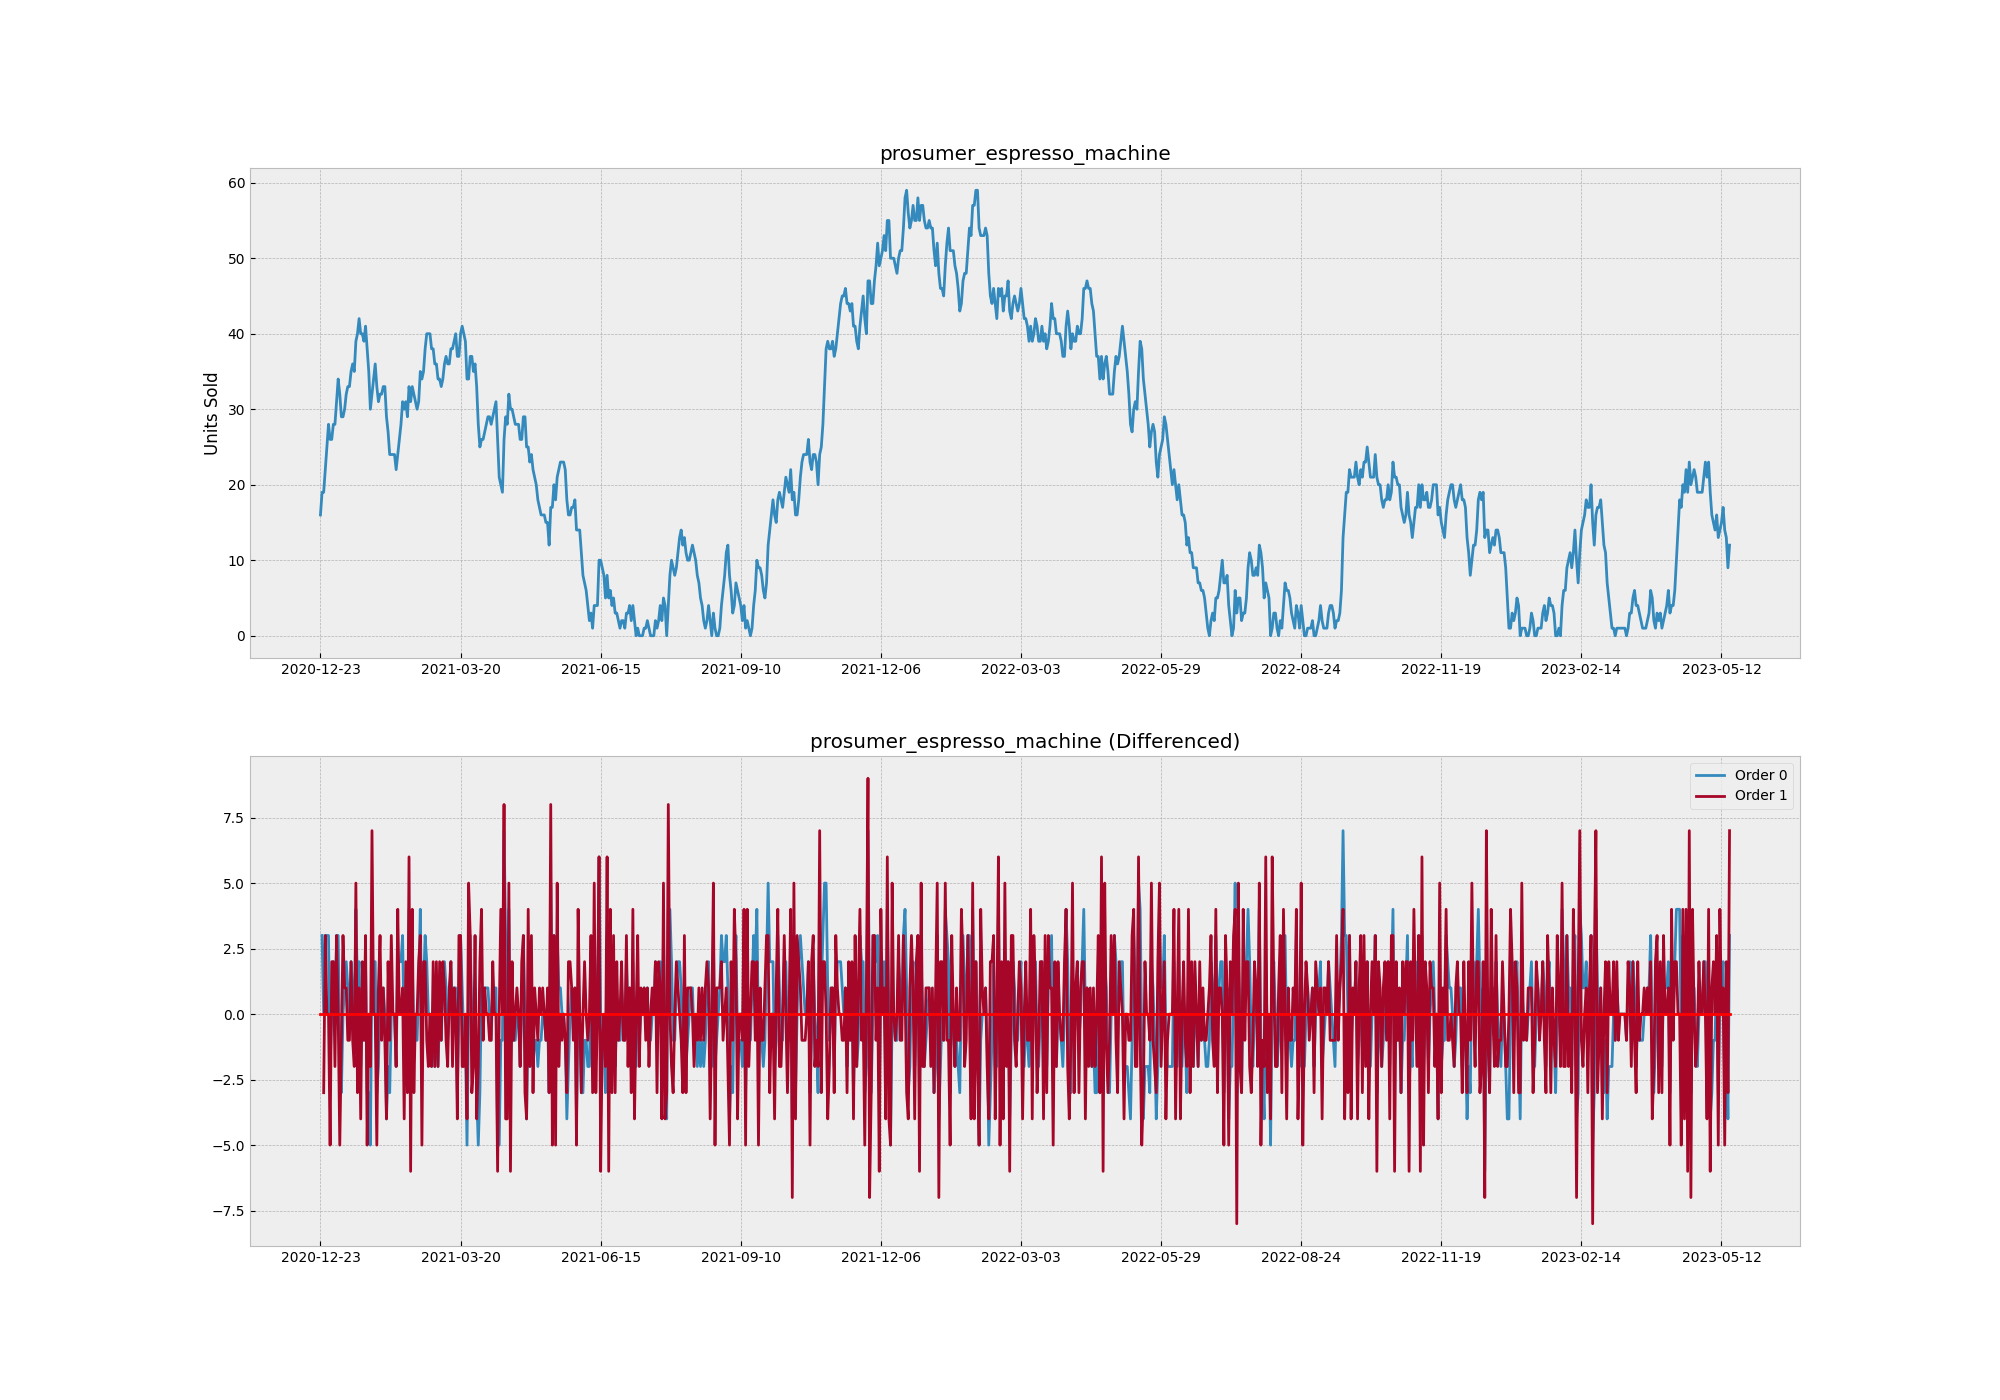
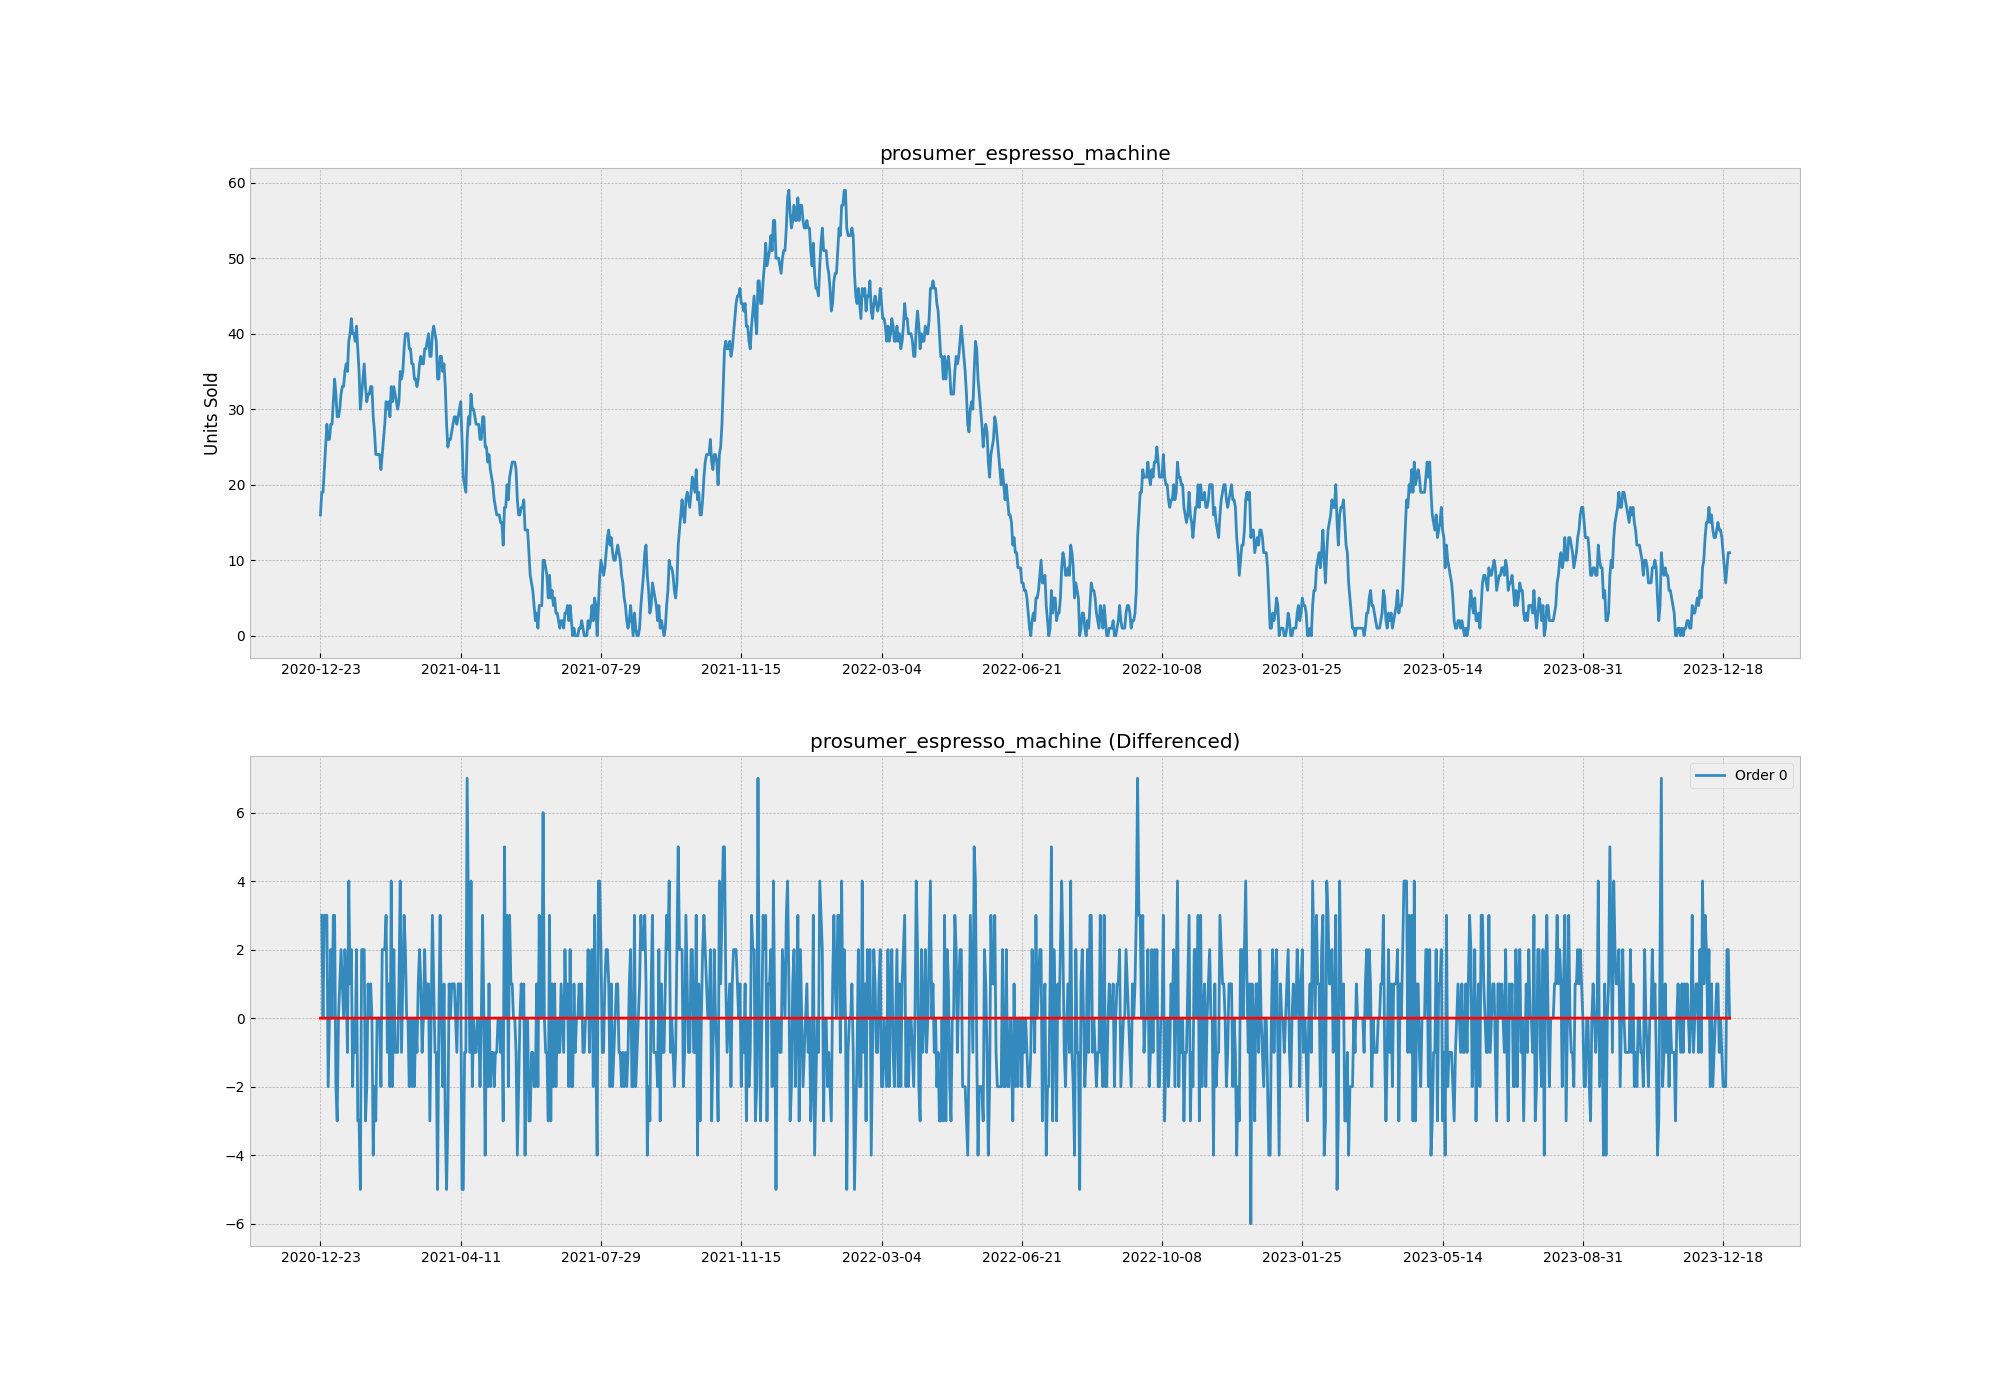
Updated visualization script/functions; added .pyc files to .gitignore

diff --git a/src/toolbox.py b/src/toolbox.py
@@ -17,6 +17,9 @@ import numpy as np
 # import plotting libraries
 import matplotlib.pyplot as plt
 
+# import statistics libraries
+import statsmodels.api as sm
+
 # import scikit-learn functions
 from sklearn.model_selection import train_test_split
 from sklearn.metrics import (mean_squared_error, mean_absolute_error,
@@ -60,7 +63,7 @@ def plot_differenced_ts(series, save_path=None, differencing_param=1, title="Tim
 
     axes[1].set(title=title + " (Differenced)",
                 ylabel=None,
-                xticks = series.index[range(0, len(series), len(series)//num_xticks)]
+                xticks = diff_series.index[range(0, len(series), len(series)//num_xticks)]
                 )
     axes[1].legend()
     axes[1].plot(diff_series.index, [0]*len(series), 'r')
@@ -68,8 +71,39 @@ def plot_differenced_ts(series, save_path=None, differencing_param=1, title="Tim
     # save plot
     if save_path != None:
         plt.savefig(save_path)
+        print(f"\nSaved plot {title} to path {save_path}")
+    else:
+        plt.show()
+
 
 # define function to plot ACF & PACF
+def plot_acf(series, save_path=None, differencing_param=1, title="ACF", num_xticks=25):
+
+    # difference timeseries
+    diff_series = series
+    for order in range(differencing_param):
+        diff_series = diff_series.diff()
+
+    # set style params
+    plt.style.use('bmh')
+
+    # define figure & axes
+    fig, axes = plt.subplots(2, 1, figsize=(20, 14))
+    fig.suptitle(title, fontsize=20)
+
+    # plot ACF
+    fig = sm.graphics.tsa.plot_acf(diff_series.values, lags=num_xticks, ax=axes[0])
+
+    # plot PACF
+    fig = sm.graphics.tsa.plot_pacf(diff_series.values, lags=num_xticks, ax=axes[1])
+
+    # save plot
+    if save_path != None:
+        plt.savefig(save_path)
+        print(f"\nSaved plot {title} to path {save_path}")
+    else:
+        plt.show()
+
 
 # ---------------------------------------
 #---Define Model Evaluation Functions---

diff --git a/src/viz/visualize.py b/src/viz/visualize.py
@@ -53,6 +53,25 @@ trn_df = trn_df['units_sold']
 tst_df.index = tst_df['sale_date']
 tst_df = tst_df['units_sold']
 
+final_df = pd.concat([trn_df, tst_df], ignore_index=False)
+
 # plot timeseries
-save_path = f"{expanduser('~')}/projects/devops_demo/reports/figures/example_ts.png"
-plot_differenced_ts(trn_df, save_path=save_path, differencing_param=2, title=prod_id)
+base_path = f"{expanduser('~')}/projects/devops_demo/reports/figures/"
+save_path = base_path + "example_ts.png"
+
+plot_differenced_ts(final_df,
+                    save_path=save_path,
+                    differencing_param=1,
+                    title=prod_id)
+
+# ---------------------
+# ---Plot ACF & PACF---
+# ---------------------
+
+# plot ACF & PACF
+save_path = base_path + "example_acf.png"
+plot_acf(final_df,
+         save_path=save_path,
+         differencing_param=1,
+         title=prod_id,
+         num_xticks=25)

diff --git a/src/data/synth_data.py b/src/data/synth_data.py
@@ -206,7 +206,7 @@ for cat_name in cat_dict:
                     units_sold = (1-temp_corr_coeff)*units_sold + temp_corr_coeff*sum([list_of_dicts[date_num-n]["units_sold"] for n in range(2)])/3
 
                 # introduce periodicity
-                units_sold += 0.05*np.sin(np.pi/6*date.month + np.pi/2)
+                units_sold += 0.1*np.sin(np.pi/6*date.month + np.pi/2)
 
             list_of_dicts.append({"prod_id": prod_id,
                                   "unit_price": round(price_dict[prod_id], 3),
